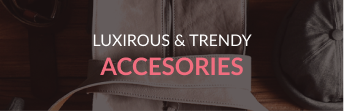
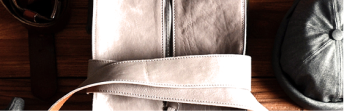
adding check fonts

diff --git a/style.css b/style.css
@@ -100,7 +100,7 @@ img {
     position: relative;
     text-align: center;
     width: 100%;
-    filter:brightness(80%);
+    /* filter:brightness(80%); */
 
 
 }
@@ -323,6 +323,7 @@ img {
     /* For mobile devices     */
 
 {
+
     .header{
         padding-left: 16px;
         padding-right: 26px;
@@ -365,7 +366,7 @@ img {
     }
 
 	.logo_sign {
-		margin: 150px auto;
+		margin: 150px 56px;
 	}
 
 	.content_logo img {
@@ -379,20 +380,26 @@ img {
 	.logo_sign_olf {
 		font-size: 20px;
 	}
-
+    .logo_sign_olf_fashion{
+        font-size: 20px;
+    }
+    .pos_text_catalog img{
+        width:100%;
+        height: 100%;
+        object-fit: cover;
+    }
     .catalog_accessories .tablet{
         display:none;
     }
     .catalog_accessories .mobile{
         display:block;
-        max-width: fit-content;
     }
 	.content_products_items {
 		grid-template-columns: 1fr;
 		gap: 16px;
 	}
-
     
+
 	.btn_BAP {
 		margin: 32px auto;
 	}

diff --git a/index.html b/index.html
@@ -59,7 +59,7 @@
                 <p class="sale_for_item">30% OFF<br>
                     <span class="for_item">FOR WOMEN</span></p>
             </div>
-            <div class="catalog_man pos_text_catalog img_catalog">
+            <div class="catalog_man pos_text_catalog">
                 <img src="img/catalog_man.png" alt="catalog_man">
                 <div class="overlay"></div>
                 <p class="sale_for_item">HOT DEAL<br>
